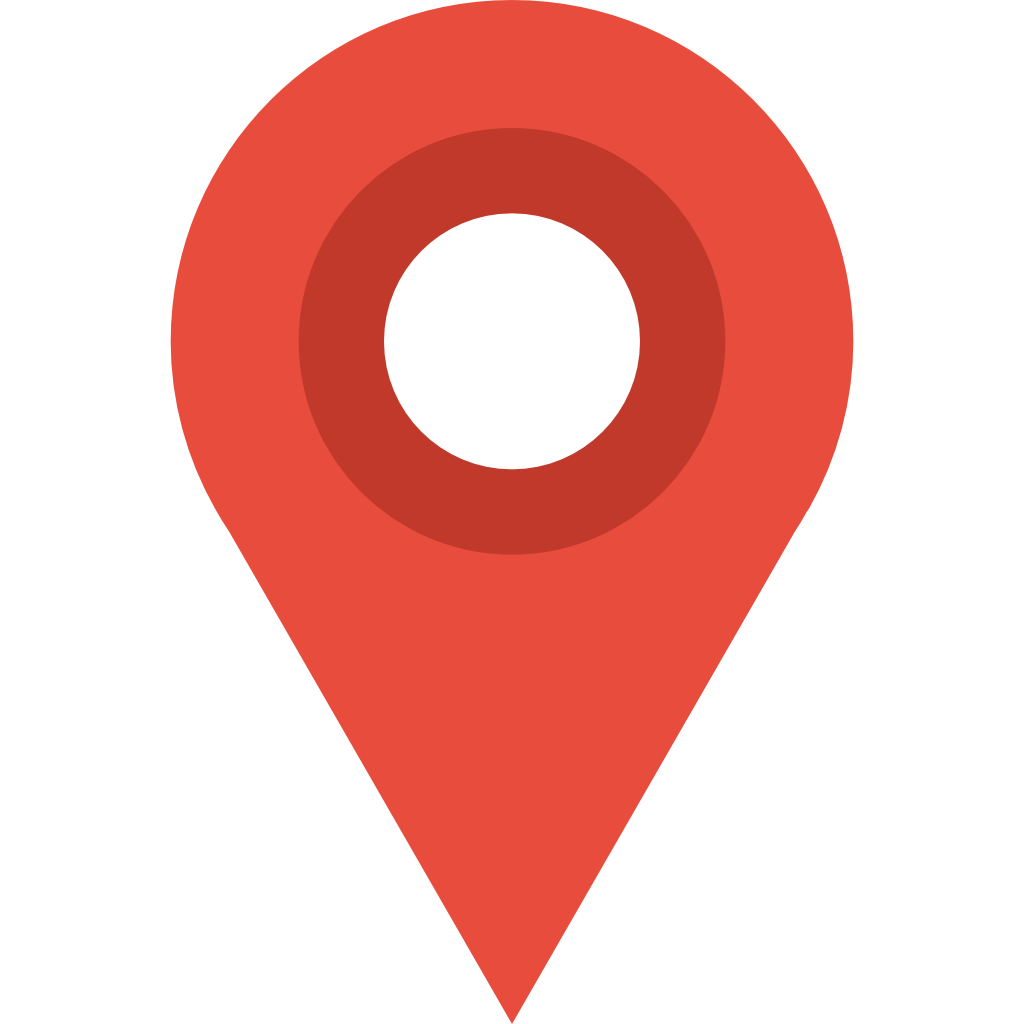
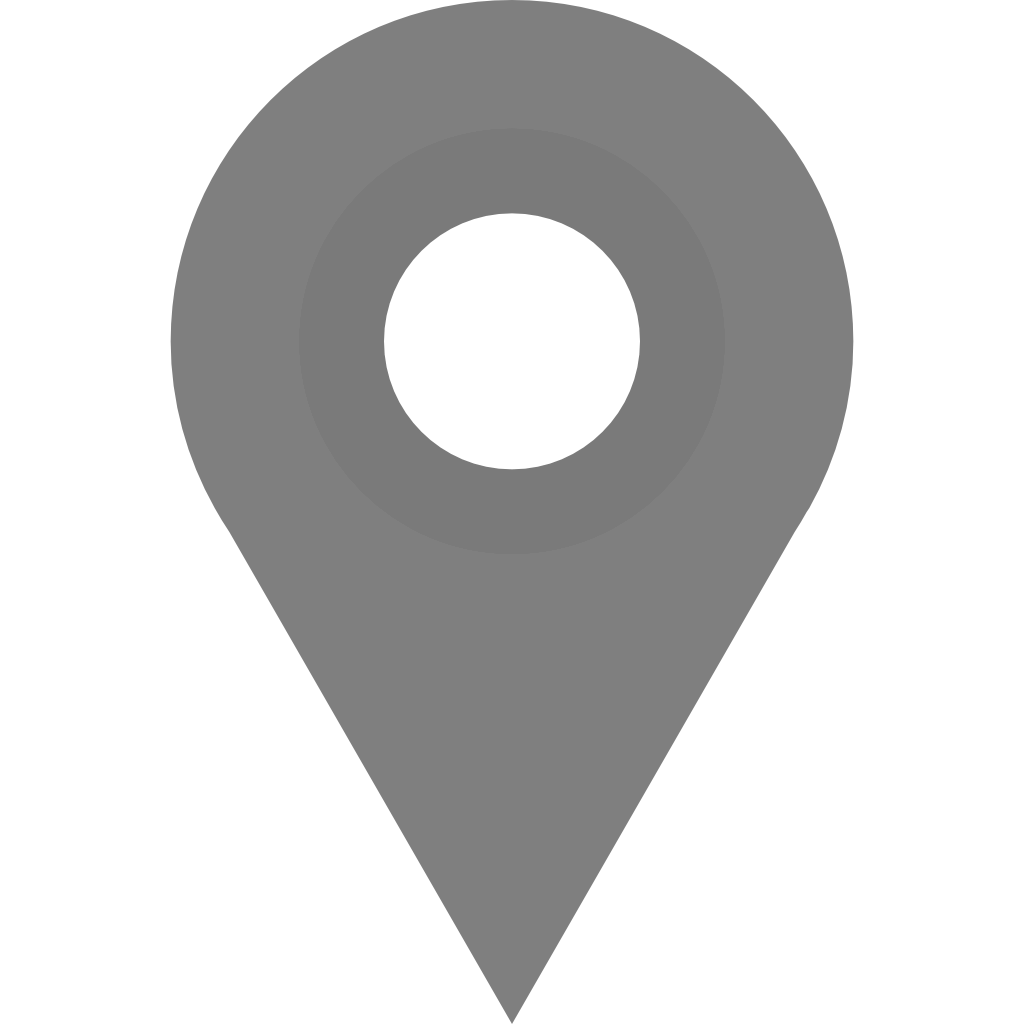
works

diff --git a/app/maps.tsx b/app/maps.tsx
@@ -9,37 +9,39 @@ const myIcon = L.icon({
     iconSize: [38, 38],
 });
 
+
+
 const locations: [number, number][] = [
-  [45.80850072738114,15.995897327348327],
-  [45.8127078082012,15.965822569960194],
-  [45.7957979116309,15.994046466360633],
-  [45.83237666115715,15.976691289777696],
-  [45.79241624579775,15.967861347682009],
-  [45.790769337332456,15.962603669275117],
-  [45.81308553008886,15.985218298487208],
-  [45.79529545617052,15.966862987204482],
-  [45.79208453798948,15.962314998140384],
-  [45.79301777983297,15.96999731858222],
-  [45.81346763078366,15.964666740763082],
-  [45.802724329106006,16.003157316624034],
-  [45.79477036242666,15.964455359288154],
-  [45.795073239739295,15.994602926999647],
-  [45.79990519258438,16.005837855444053],
-  [45.81152737281019,15.997271997794591],
-  [45.81013895081581,16.01665331155555],
-  [45.7906664749969,15.962517897448157],
-  [45.8031305900108,15.96356649572598],
-  [45.79605451972534,15.96458844280814],
-  [45.81469737831795,15.965038984815903],
-  [45.79535766682832,15.967443600671858],
-  [45.813597181124806,15.964735335581835],
-  [45.796905204948686,15.966347649076924],
-  [45.81274526135703,15.992717206633596],
-  [45.809514113031256,15.96220512011199],
-  [45.811162252465344,15.998046648877349],
-  [45.81330322791377,15.997261164280657],
-  [45.78081263901853,15.964095642314463],
-  [45.80786913033796,16.00886497431401]
+  [45.80558722631532,15.982263269620503],
+[45.80288301947747,15.963337909878629],
+[45.80837334869255,15.980495327006762],
+[45.80850072738114,15.995897327348327],
+[45.81195492948553,15.973242598480482],
+[45.8057143263365,15.977592140846657],
+[45.80594132625922,15.986604498488177],
+[45.83237666115715,15.976691289777696],
+[45.79610951577996,15.975742318012871],
+[45.79548945991166,15.9703800977984],
+[45.79241624579775,15.967861347682009],
+[45.81211290914488,15.96958332477637],
+[45.81162173438676,15.980496712637809],
+[45.81346763078366,15.964666740763082],
+[45.802724329106006,16.003157316624034],
+[45.795073239739295,15.994602926999647],
+[45.79990519258438,16.005837855444053],
+[45.81013895081581,16.01665331155555],
+[45.806549668816736,15.96734899780046],
+[45.79725974121769,15.98327812700002],
+[45.80082872326693,15.972206727349096],
+[45.8083857438019,15.974887229508193],
+[45.796905204948686,15.966347649076924],
+[45.798759579112165,15.988631511629247],
+[45.80956913438709,15.986231721951883],
+[45.81201944150146,15.977190199960305],
+[45.809514113031256,15.96220512011199],
+[45.811162252465344,15.998046648877349],
+[45.78081263901853,15.964095642314463],
+[45.80786913033796,16.00886497431401]
 ]
 
 const position: [number, number] = [45.800399, 15.977568];
@@ -99,11 +101,17 @@ export default function Maps({score}: {score: any}) {
     if(gameEnd) return
     if(disabled) return
     let latlng = [position[1], position[0]];
-    if(coordinates != undefined && coordinates.length > 1 && coordinates.length == 29 && JSON.stringify(coordinates[0]) == JSON.stringify(latlng)) {
+
+    if(coordinates != undefined && coordinates.length > 1 && coordinates.length == 30 && JSON.stringify(coordinates[0]) == JSON.stringify(latlng)) {
       setCoordinates([...coordinates, latlng]);
       setGameEnd(true);
-      console.log("gameEnd");
+      alert("Game end");
     } else if(coordinates.length > 0) {
+      for(let i = 0; i < coordinates.length; i++) {
+        if(JSON.stringify(coordinates[i]) == JSON.stringify(latlng)) {
+          return
+        }
+      }
       setCoordinates([...coordinates, latlng]);
     } else {
       setCoordinates([latlng]);
@@ -133,15 +141,38 @@ export default function Maps({score}: {score: any}) {
     }
   } , [score.user]);
 
+  useEffect(() => {
+    if(score.score == 0){
+      const dat = document.getElementsByClassName('leaflet-marker-pane')[0].childNodes;
+      for(let i = 0; i < dat.length; i++) {
+        dat[i].style.cursor = "pointer";
+        document.getElementsByClassName('leaflet-marker-icon')[i].src = "https://cdn0.iconfinder.com/data/icons/small-n-flat/24/678111-map-marker-512.png";
+      }
+    }
+  }
+  , [score.score]);
+
   return (
-    <MapContainer center={position} zoomControl={false} doubleClickZoom={false} zoom={14} scrollWheelZoom={true} style={{height: "100%", width: "100%"}}>
+    <MapContainer center={position} zoomControl={false} doubleClickZoom={false} zoom={13} scrollWheelZoom={true} style={{height: "100%", width: "100%"}}>
       <TileLayer
         url="https://{s}.tile.openstreetmap.org/{z}/{x}/{y}.png?markers"
       />
 
-      {locations.map((l) => (
-      <Marker position={l} icon={myIcon} key={l[0]} eventHandlers={{
+      {locations.map((l, index) => (
+      <Marker position={l}
+        icon={myIcon}
+        key={l[0]} eventHandlers={{
         click: () => {
+
+          if(disabled) return
+          if(gameEnd) return
+
+          if(document.getElementsByClassName('leaflet-marker-pane')[0].childNodes[index] != undefined){
+            document.getElementsByClassName('leaflet-marker-pane')[0].childNodes[index].style.cursor = "default";
+            console.log(document.getElementsByClassName('leaflet-marker-pane')[0].childNodes[index]);
+            document.getElementsByClassName('leaflet-marker-icon')[index].src = "https://cdn3.iconfinder.com/data/icons/flat-pro-basic-set-1-1/32/location-gray-512.png";
+          }
+
           handleClick(l);
         }
       }} />

diff --git a/app/page.tsx b/app/page.tsx
@@ -87,7 +87,7 @@ export default function Home() {
           zIndex: "1",
         }}
       >
-        <Maps score={{gameFinished, remove, user}} />
+        <Maps score={{gameFinished, remove, user, score}} />
       </div>
       <div
         style={{
